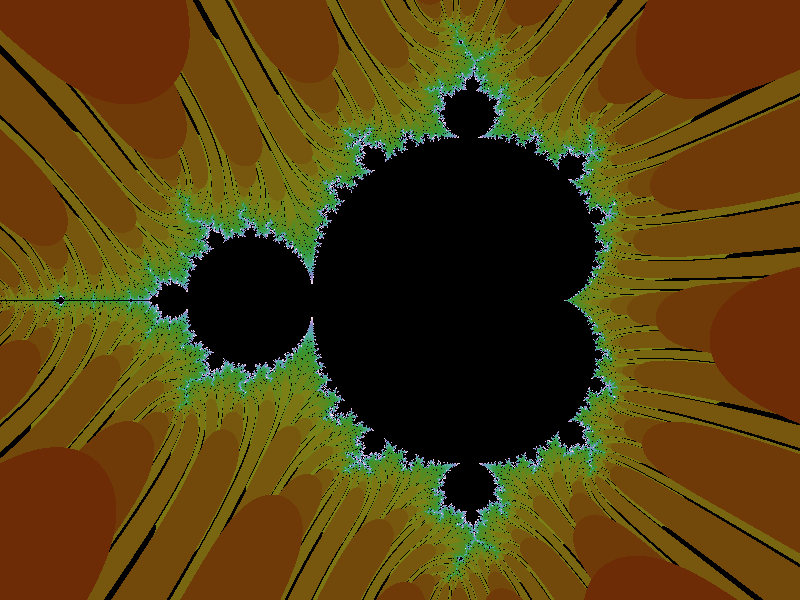
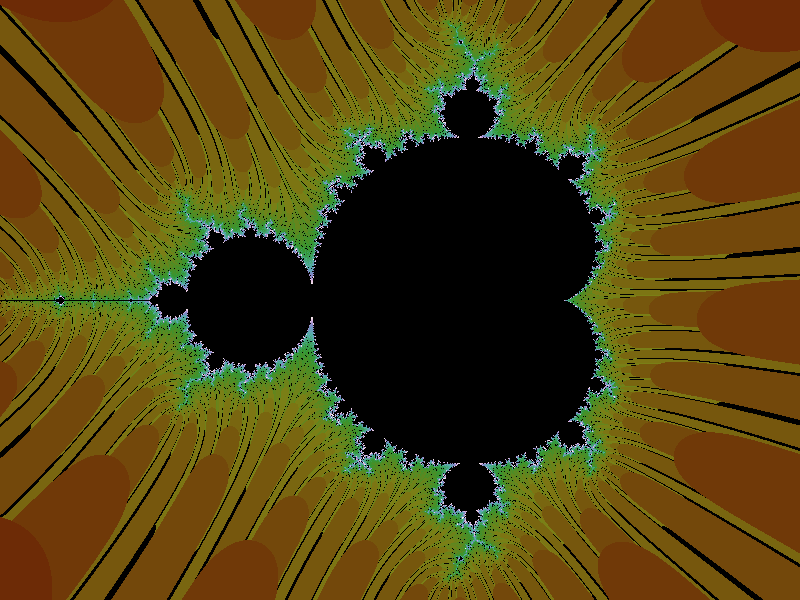
bugfix in formula

diff --git a/main.c b/main.c
@@ -30,8 +30,6 @@ typedef union {
 
 typedef int Errno;
 
-Pixel* screen;
-
 static inline float fmap(long x, long in_min, long in_max, float out_min, float out_max)
 {
     return (float)(x - in_min) * (out_max - out_min) / (float)(in_max - in_min) + out_min;
@@ -85,10 +83,12 @@ Pixel hsv2rgb(Pixel hsv)
     return rgb;
 }
 
-void render(void)
+void render(Pixel* screen)
 {
-    for (int y = 0; y < SCREEN_HEIGHT; ++y) {
-        for (int x = 0; x < SCREEN_WIDTH; ++x) {
+    for (int y = 0; y < SCREEN_HEIGHT; ++y)
+    {
+        for (int x = 0; x < SCREEN_WIDTH; ++x)
+        {
 
             float a = fmap(x, 0, SCREEN_WIDTH, X_MIN_RANGE, X_MAX_RANGE);
             float b = fmap(y, 0, SCREEN_HEIGHT, Y_MIN_RANGE, Y_MAX_RANGE);
@@ -99,18 +99,19 @@ void render(void)
             int n = 0;
             while (++n < MAX_ITERATIONS)
             {
-                float aa = a * a - b * b;
-                float bb = 2.0f * a * b;
+                float real = a * a - b * b;
+                float imag = 2.0f * a * b;
 
-                a = aa + ca;
-                b = bb + cb;
+                a = real + ca;
+                b = imag + cb;
 
-                if (a + b > 16) break;
+                if (a * a + b * b > 16.0f) break;
             }
 
             Pixel hsv = { .h = 0, .s = 0, .v = 0 };
 
-            if (n < MAX_ITERATIONS) {
+            if (n < MAX_ITERATIONS)
+            {
                 hsv.h = (uint8_t) map(n, 0, MAX_ITERATIONS, 0, 255);
                 hsv.s = (uint8_t) map(n, 0, MAX_ITERATIONS, 255, 0);
                 hsv.v = (uint8_t) map(n, 0, MAX_ITERATIONS, 100, 250);
@@ -123,7 +124,7 @@ void render(void)
     }
 }
 
-Errno saveToFile()
+Errno saveToFile(Pixel* screen)
 {
     Errno result = 0;
     FILE* f = NULL;
@@ -139,6 +140,9 @@ Errno saveToFile()
 
  close_file:
     if (f) fclose(f);
+    if (result)
+        fprintf(stderr, "Error: could not write to file %s: %s\n", FILENAME, strerror(result));
+
     return result;
 }
 
@@ -146,14 +150,12 @@ int main(void)
 {
     Errno err = 0;
 
-    screen = malloc(sizeof *screen * SCREEN_WIDTH * SCREEN_HEIGHT);
+    Pixel* screen = malloc(sizeof *screen * SCREEN_WIDTH * SCREEN_HEIGHT);
     assert(screen);
 
-    render();
+    render(screen);
 
-    err = saveToFile();
-    if (err)
-        fprintf(stderr, "Error: could not write to file %s: %s\n", FILENAME, strerror(err));
+    err = saveToFile(screen);
 
     free(screen);
     return err;
